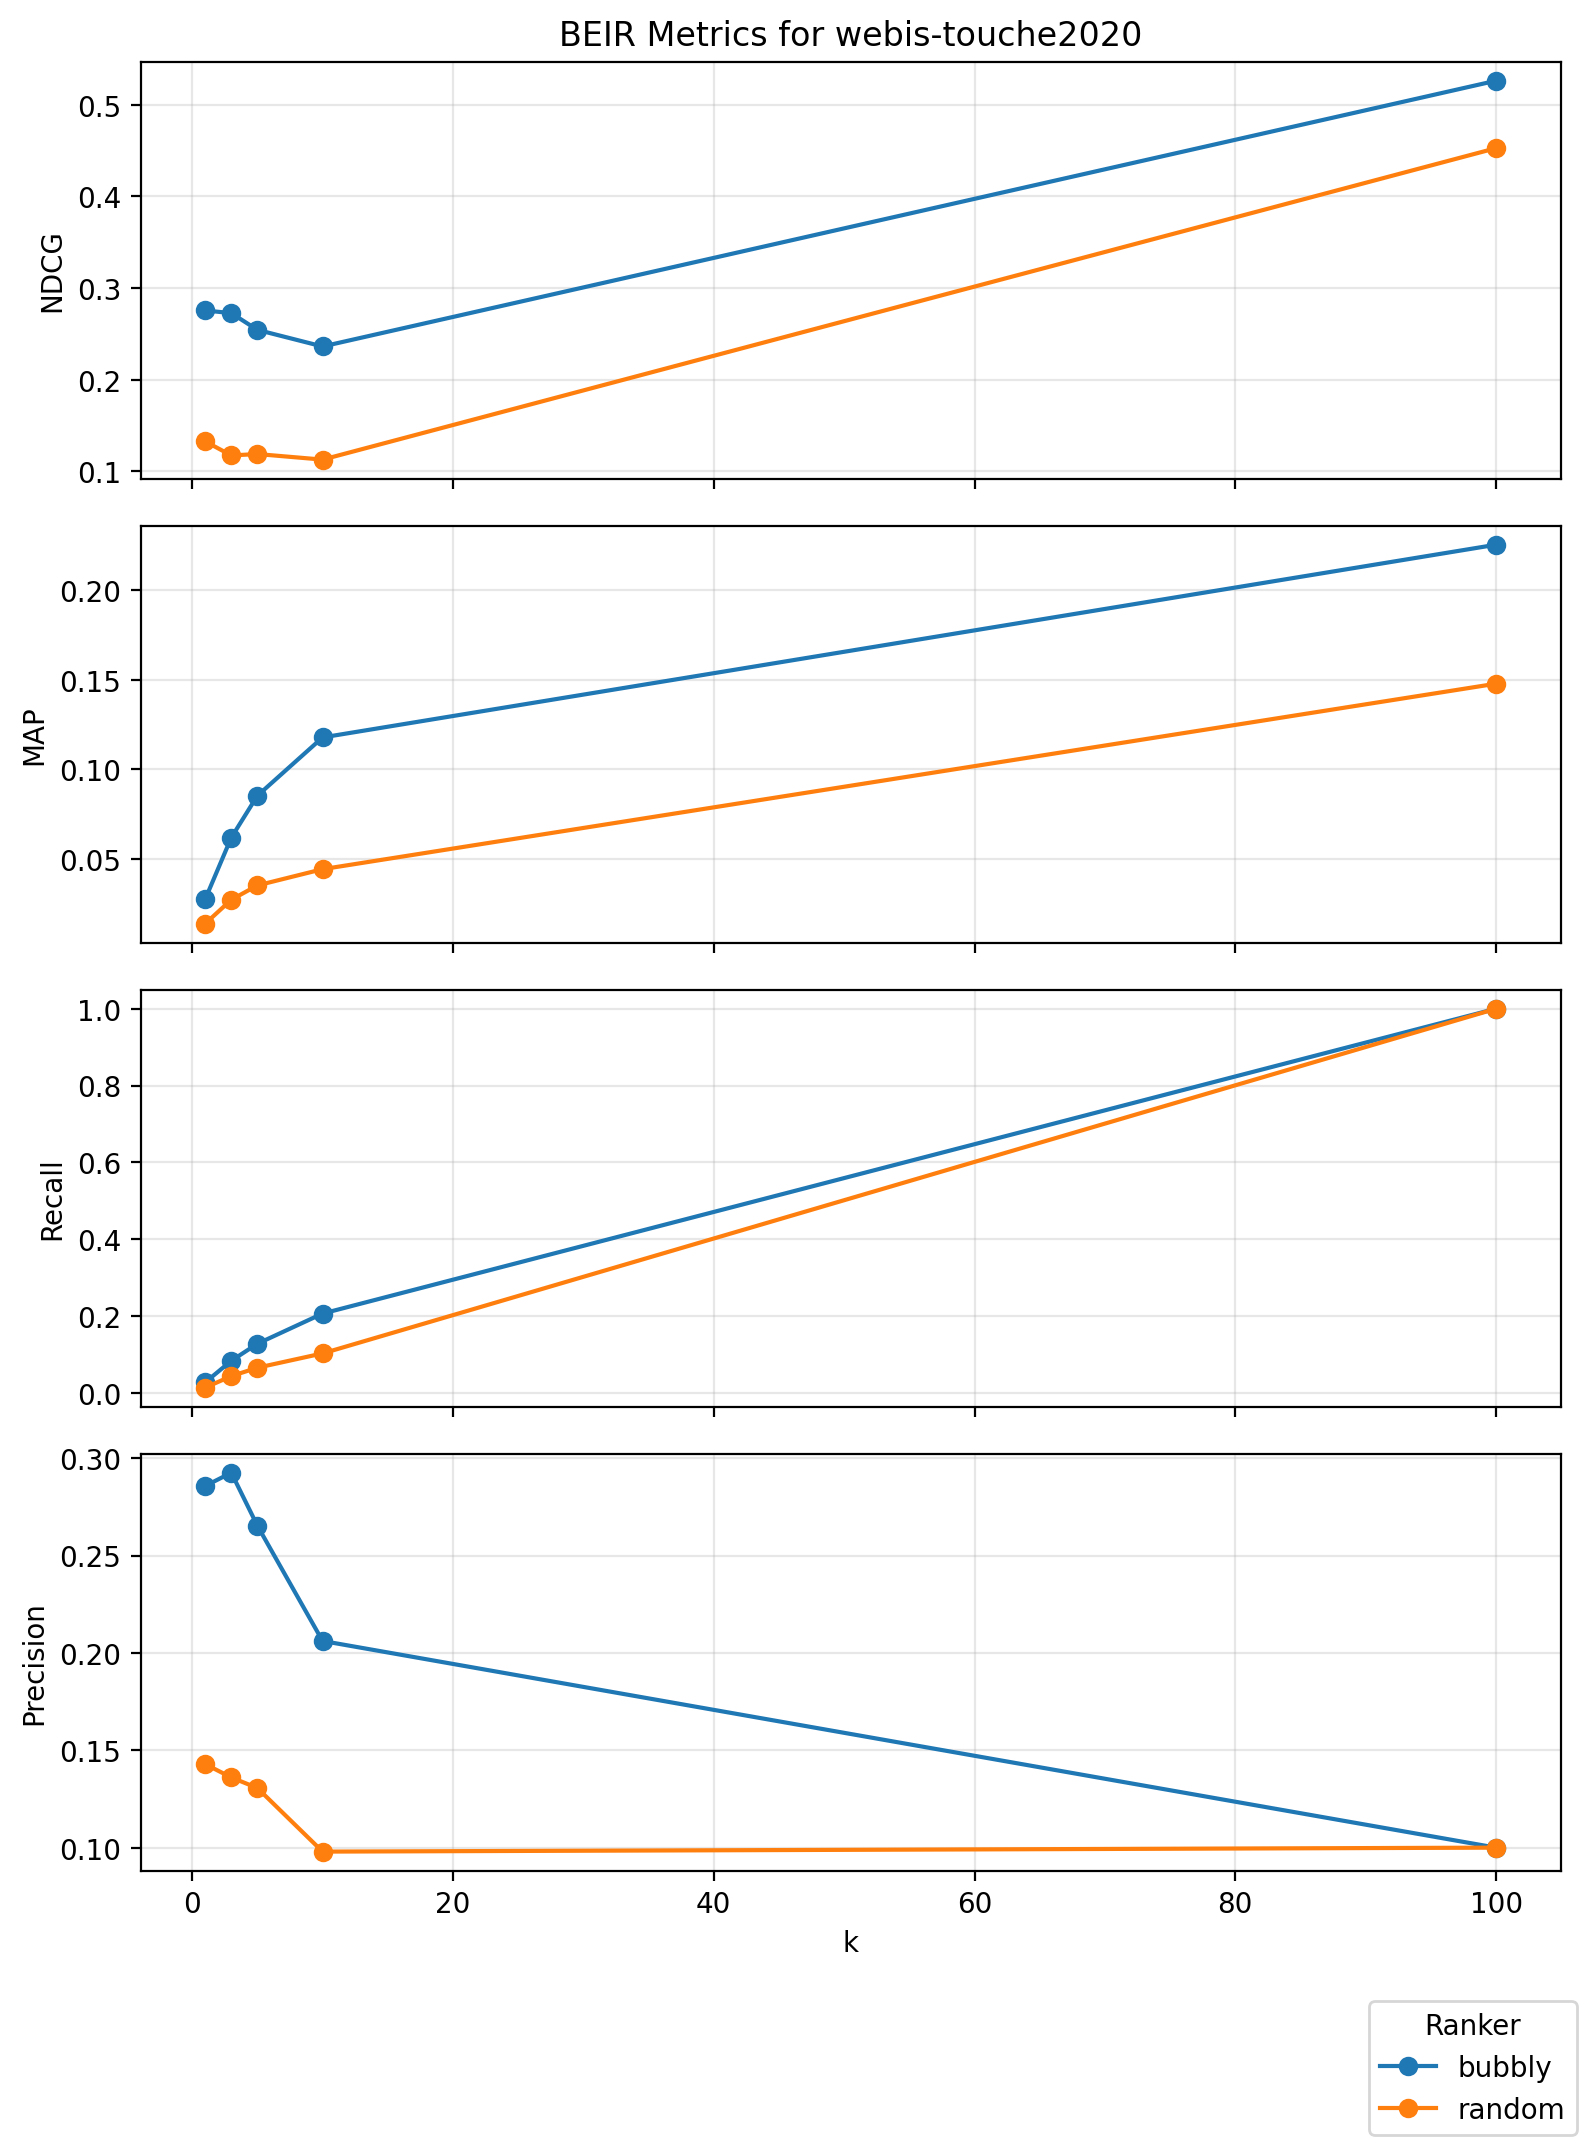
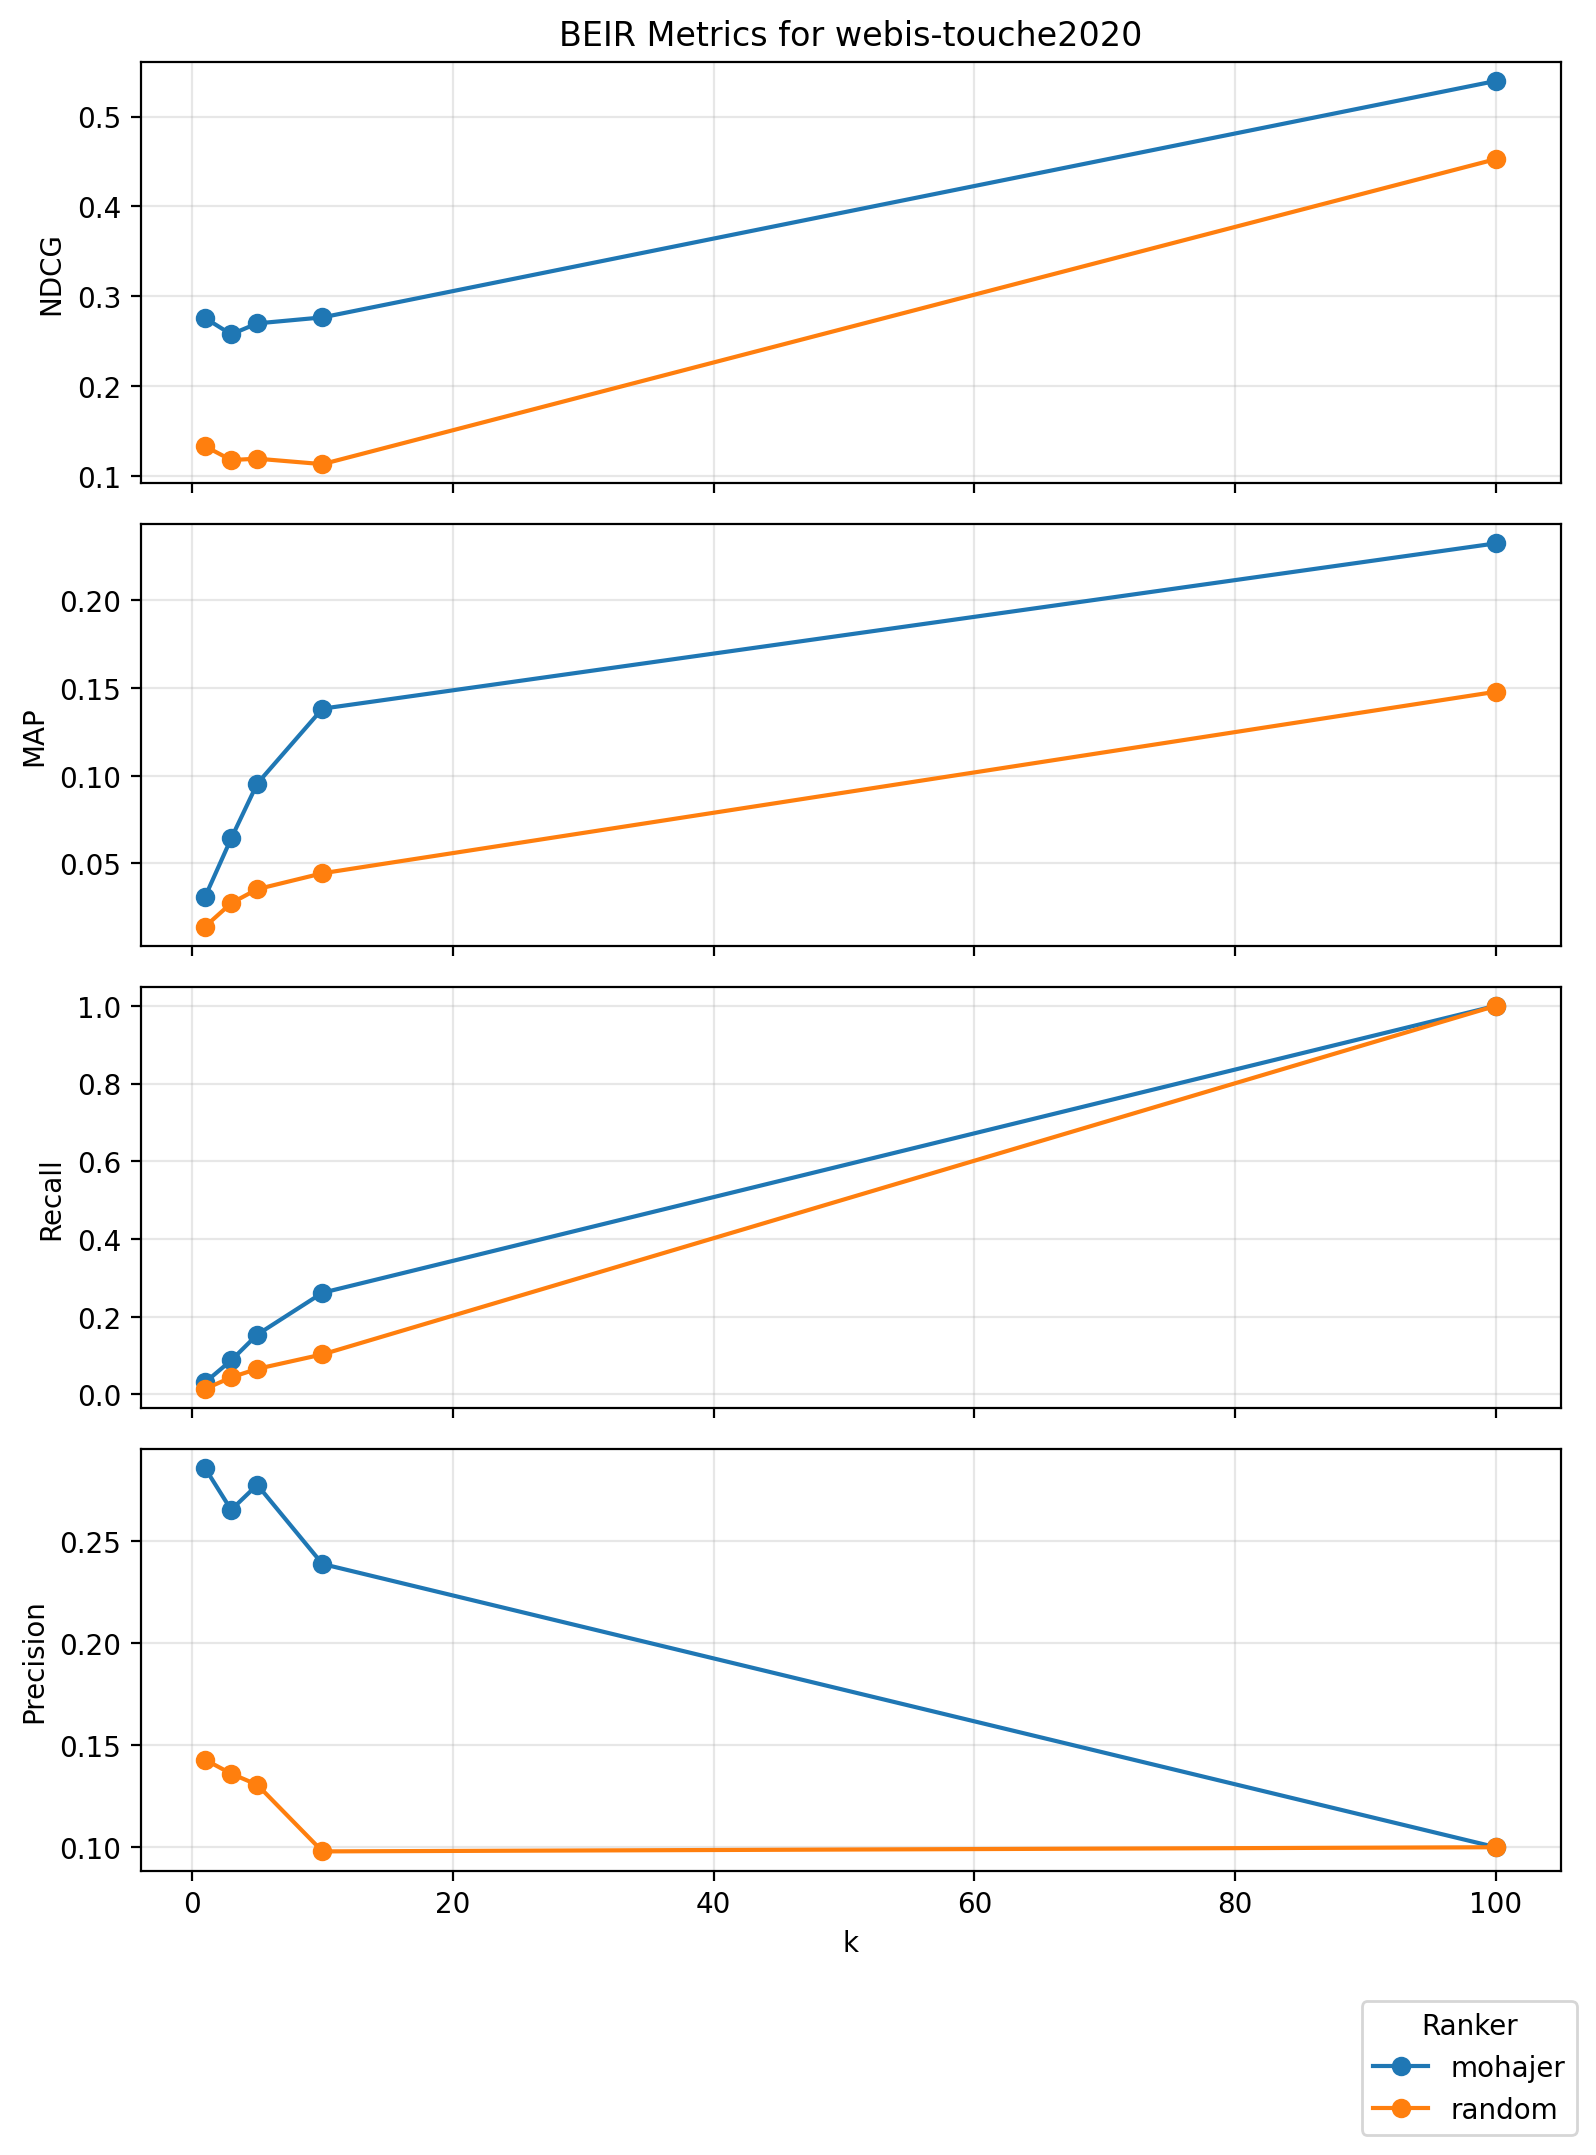
Update results

diff --git a/ireranker/rankers/BubbleRanker.py b/ireranker/rankers/BubbleRanker.py
@@ -8,7 +8,7 @@ from .Ranker import Ranker
 from .registry import register_ranker
 
 
-@register_ranker("bubbly")
+# @register_ranker("bubbly")
 class BubbleRanker(Ranker):
     """Performs Bubble Sort based on the comparisson matrices"""
 

diff --git a/README.md b/README.md
@@ -118,20 +118,15 @@ Auto-updated after each BEIR evaluation:
 <!-- BEGIN_BEIR_RESULTS -->
 | Ranker | Avg NDCG@10/Comparisons |
 | --- | --- |
-| bubbly | 1.098e-06 |
-| mohajer | 2.692e-05 |
+| mohajer | 1.931e-05 |
 | random | 0.000e+00 |
 
-| Dataset | bubbly | mohajer | random |
-| --- | --- | --- | --- |
-| dbpedia-entity | n/a | n/a | n/a |
-| fiqa | n/a | n/a | n/a |
-| nfcorpus | 0.4809 | 0.6035 | 0.2596 |
-| robust04 | n/a | n/a | n/a |
-| scifact | 0.5329 | 0.6789 | 0.0440 |
-| signal1m | n/a | n/a | n/a |
-| trec-covid | 0.7177 | 0.7713 | 0.3915 |
-| trec-news | n/a | n/a | n/a |
-| trec-robust04 | n/a | n/a | n/a |
-| webis-touche2020 | 0.2362 | 0.2763 | 0.1128 |
+| Dataset | mohajer | random |
+| --- | --- | --- |
+| dbpedia-entity | 0.5400 | 0.0950 |
+| fiqa | 0.4248 | 0.0634 |
+| nfcorpus | 0.6035 | 0.2596 |
+| scifact | 0.6789 | 0.0440 |
+| trec-covid | 0.7713 | 0.3915 |
+| webis-touche2020 | 0.2763 | 0.1128 |
 <!-- END_BEIR_RESULTS -->
